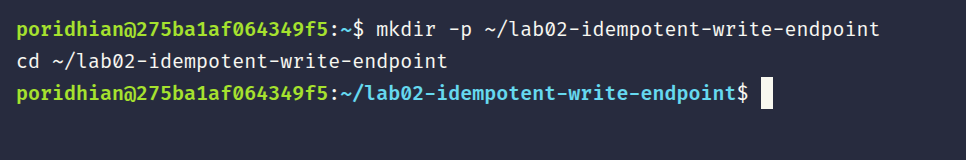
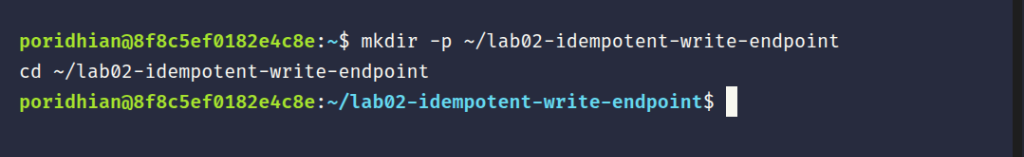
docs(lab02): add Step 1 and Step 2 screenshots to readme

Changed region(s): [[0.0, 0.3312, 0.8075, 0.7389], [0.0, 0.1274, 0.9317, 0.3312], [0.9627, 0.0, 1.0, 1.0]]

diff --git a/API Design & Networking Essentials (Module 6)/Lab 02: Idempotent Write Endpoint with Node.js and Redis/readme.md b/API Design & Networking Essentials (Module 6)/Lab 02: Idempotent Write Endpoint with Node.js and Redis/readme.md
@@ -124,11 +124,15 @@ services:
 EOF
 ```
 
+![Create docker-compose.yml](images/step2-docker-compose.png)
+
 Launch the Redis container in the background:
 
 ```bash
 docker compose up -d redis
 ```
+
+![Launch Redis Container](images/step2-docker-compose-up.png)
 
 Verify Redis connectivity:
 
